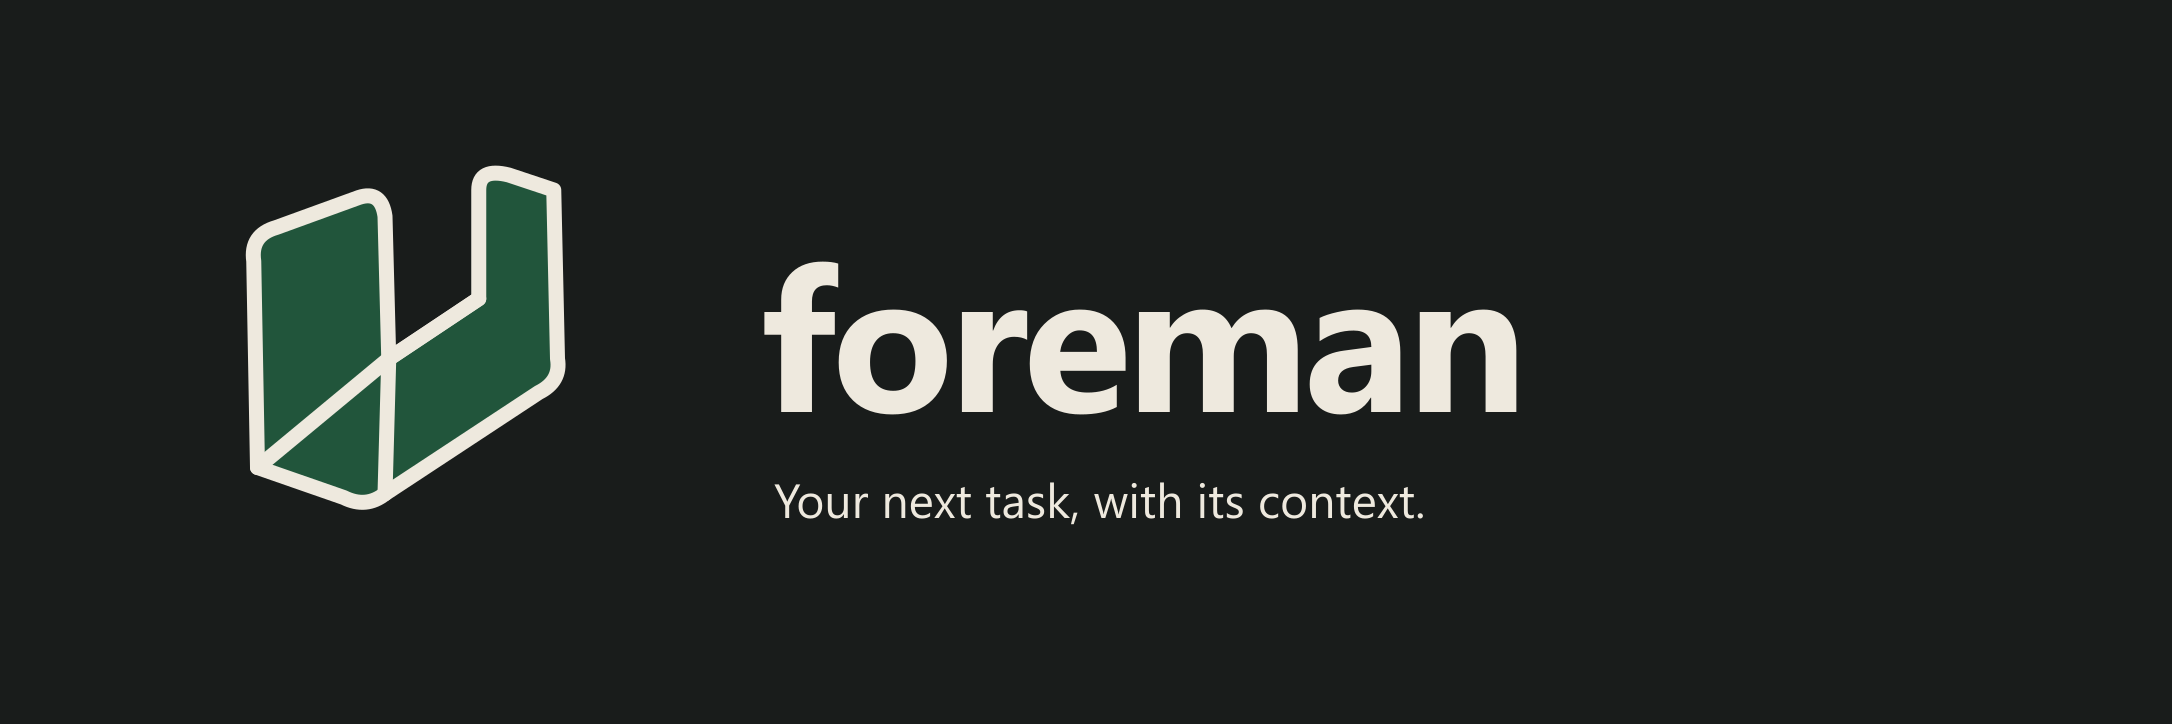
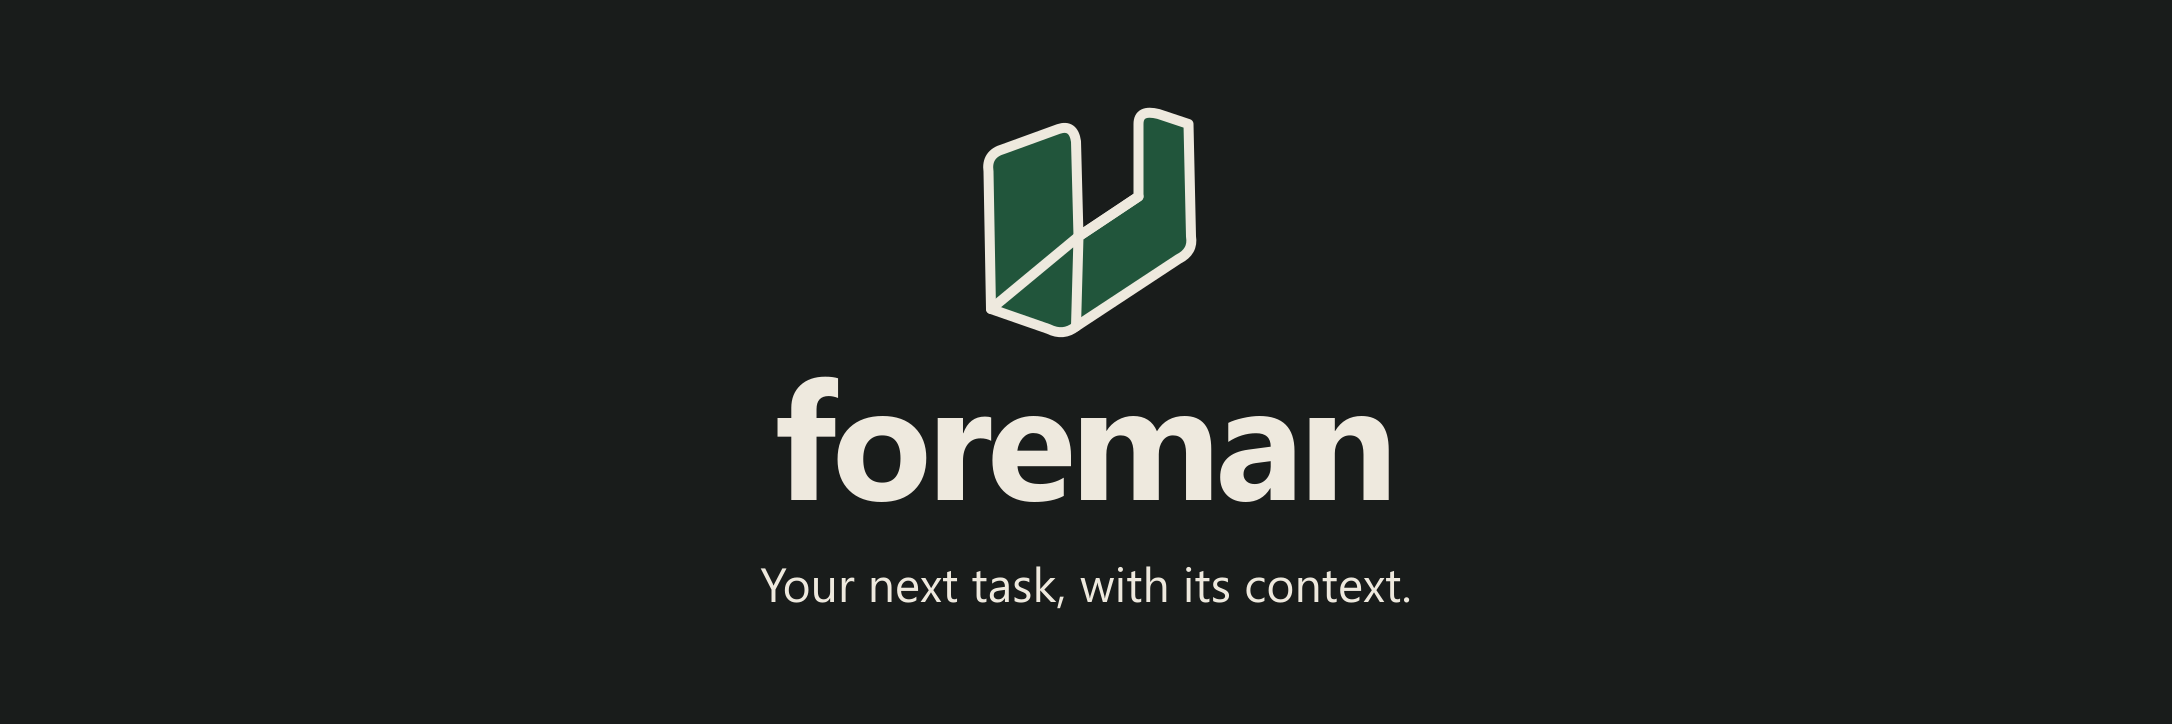
docs: center README branding and edition navigation (#15)

Changed region(s): [[0.3393, 0.1519, 0.7095, 0.7293], [0.0925, 0.2127, 0.2776, 0.6989], [0.3393, 0.7901, 0.6478, 0.8508]]

diff --git a/README.md b/README.md
@@ -8,11 +8,17 @@
   <p><strong>Your plan stays next to your code. The next task arrives with its context checked.</strong></p>
 </div>
 
+<p align="center"><strong>Available on</strong></p>
+<p align="center">
+  <a href="https://github.com/V-Songbird/foreman/tree/Codex"><img src="assets/edition-codex.svg" alt="Codex" width="80" height="80" /></a>&emsp;&emsp;<a href="https://github.com/V-Songbird/foreman/tree/Claude"><img src="assets/edition-claude.svg" alt="Claude" width="80" height="80" /></a><br />
+  <a href="https://github.com/V-Songbird/foreman/tree/Codex">Codex</a>&emsp;&emsp;&emsp;&emsp;<a href="https://github.com/V-Songbird/foreman/tree/Claude">Claude</a>
+</p>
+
 <!-- foundry:platform identity -->
-**Edition: Claude Code.** Use this edition’s installation and compatibility notes below.
+<p align="center"><strong>Edition: Claude Code.</strong> Use this edition’s installation and compatibility notes below.</p>
 <!-- /foundry:platform identity -->
 
-[**Install**](#install) · [What is this?](#what-is-this) · [What you can do](#what-you-can-do) · [The numbers](#the-numbers) · [Going deeper](#going-deeper)
+<p align="center"><a href="#install"><strong>Get started</strong></a> · <a href="#what-is-this">What is this?</a> · <a href="#how-it-works">How it works</a> · <a href="#what-you-can-do">What you can do</a> · <a href="#the-numbers">Evidence</a></p>
 
 ## What is this?
 
